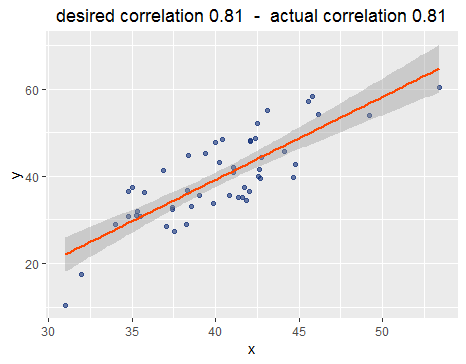
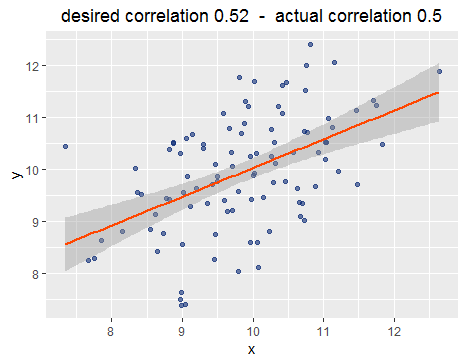
updated examples and README

diff --git a/README.md b/README.md
@@ -16,11 +16,9 @@ Internal functions for input validation adapted from [prmisc](https://github.com
 
 # Examples
 
-## sim_cor
+## sim_cor_vec
 
-Reshuffle a vector to create a correlation of specified size with another one.
-
-### vector mode
+Reshuffles a vector to create a correlation of specified size with another one.
 
 Takes one or two vectors as input. If only one is provided, the second vector is a duplicate of the first one.
 
@@ -28,10 +26,10 @@ Takes one or two vectors as input. If only one is provided, the second vector is
 vec1 <- 1:100
 vec2 <- 51:150
 
-example1 <- sim_cor(vector1 = vec1, vector2 = vec2, r = .2, shuffles = 100)
+example1 <- sim_cor_vec(vector1 = vec1, vector2 = vec2, r = .2, shuffles = 100)
 
 library(tidyverse)
-example1$data %>% 
+example1$data %>%
   ggplot(aes(x = x, y = y)) +
   geom_point(colour = "#0c2c76", alpha = .6) +
   geom_smooth(method = "lm", colour = "#ff4600") +
@@ -45,23 +43,26 @@ example1$data %>%
 ```R
 vec1 <- 1:200
 
-example2 <- sim_cor(vector1 = vec1, r = .42, shuffles = 1000)
+example2 <- sim_cor_vec(vector1 = vec1, r = .42, shuffles = 1000)
 ```
 
 ![](https://raw.githubusercontent.com/einGlasRotwein/cmonCorr/master/examples/example2.png)
 
-### parameter mode
+## sim_cor_vec
+
+Reshuffles a vector to create a correlation of specified size with another one.
 
 Takes parameters for one or two vectors as input. If only parameters for one are provided, the second vector is created from the parameters of the first one.
 
 ```R
-example3 <- sim_cor(N = 50, M1 = 40, SD1 = 4, M2 = 40, SD2 = 10, r = .81, shuffles = 2000)
+example3 <- sim_cor_param(100, "normal", list(mean = 10, sd = 1), r = .52, shuffles = 1000)
 ```
 
 ![](https://raw.githubusercontent.com/einGlasRotwein/cmonCorr/master/examples/example3.png)
 
 ```R
-example4 <- sim_cor(N = 20, M1 = 40, SD1 = 4, r = -1, shuffles = 50)
+example4 <- sim_cor_param(100, "normal", list(mean = 10, sd = 1), r = -.8, shuffles = 100,
+                          "unif", list(min = 1, max = 2))
 ```
 
 ![](https://raw.githubusercontent.com/einGlasRotwein/cmonCorr/master/examples/example4.png)
